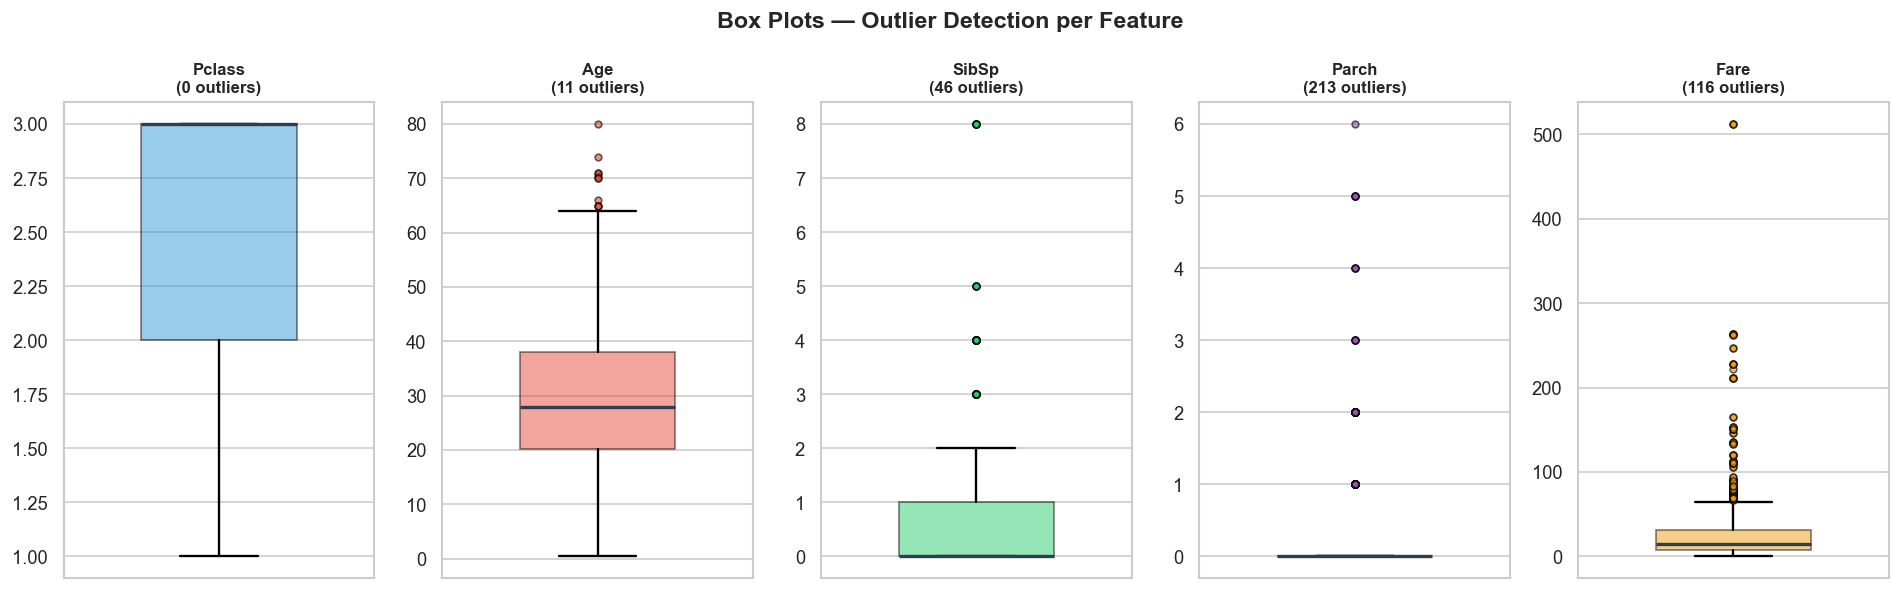
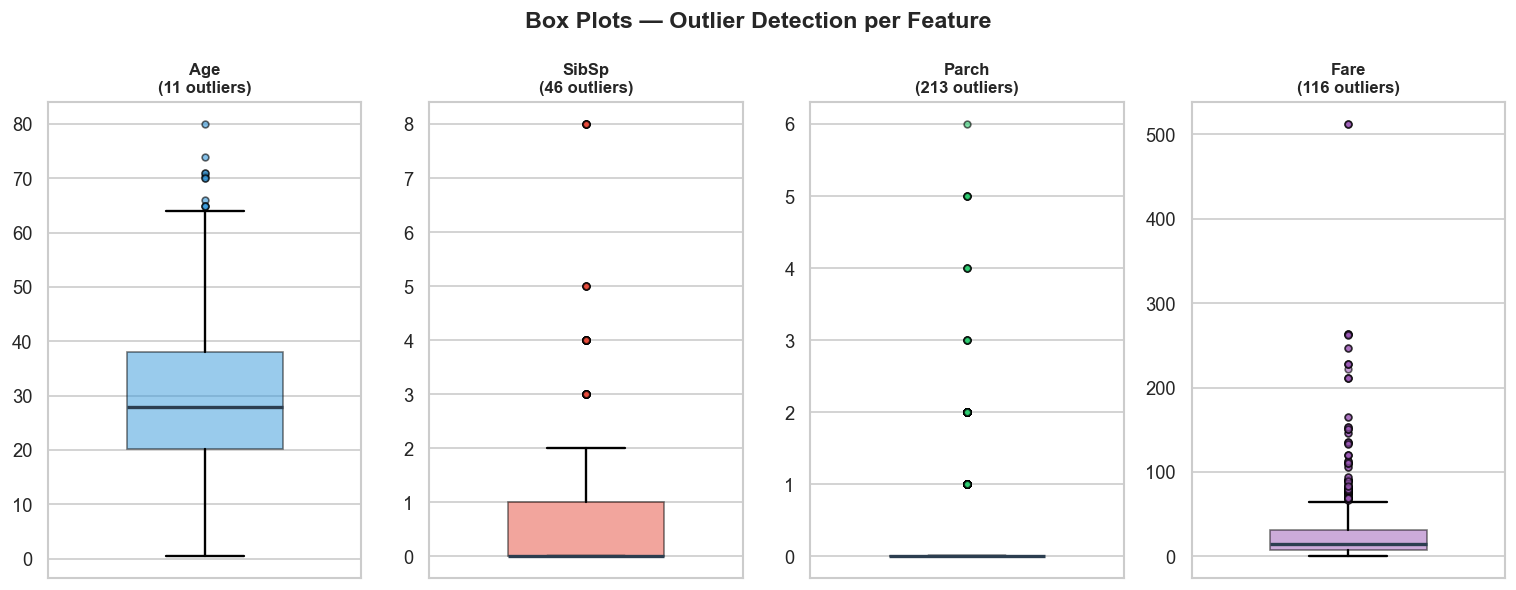
fix: remove Pclass from numerical feature analysis

diff --git a/src/components/assignment1/TabularEDA.jsx b/src/components/assignment1/TabularEDA.jsx
@@ -2,12 +2,14 @@ import React from 'react';
 import { Users, LayoutList, Hash, Target, Info, Database, AlertTriangle, BarChart2, PieChart, Network, Crosshair, Activity, Lightbulb } from 'lucide-react';
 import missingValuesImg from '../../assets/eda-tabular/tabular-missing-values.png';
 import duplicateValuesImg from '../../assets/eda-tabular/tabular-duplicate-values.png';
-import pclassDistImg from '../../assets/eda-tabular/tabular_pclass_distribution.png';
 import ageDistImg from '../../assets/eda-tabular/tabular_age_distribution.png';
 import sibspDistImg from '../../assets/eda-tabular/tabular_sibsp_distribution.png';
 import parchDistImg from '../../assets/eda-tabular/tabular_parch_distribution.png';
 import fareDistImg from '../../assets/eda-tabular/tabular_fare_distribution.png';
-import categoricalDistImg from '../../assets/eda-tabular/tabular_categorical_distribution.png';
+import pclassDistImg from '../../assets/eda-tabular/tabular_pclass_distribution.png';
+import sexDistImg from '../../assets/eda-tabular/tabular_sex_distribution.png';
+import cabinDistImg from '../../assets/eda-tabular/tabuluar_cabin_distribution.png';
+import embarkedDistImg from '../../assets/eda-tabular/tabular_embarked_distribution.png';
 import ticketPrefixDistImg from '../../assets/eda-tabular/tabular_ticketprefix_distribution.png';
 import correlationHeatmapImg from '../../assets/eda-tabular/tabular_correlation_heatmap.png';
 import targetDistImg from '../../assets/eda-tabular/tabular_target_distribution.png';
@@ -20,7 +22,6 @@ import kurtosisImg from '../../assets/eda-tabular/tabular_kurtosis.png';
 
 const TabularEDA = () => {
     const numericalStats = [
-        { feature: 'Pclass', count: 891, mean: '2.31', median: '3.00', std: '0.84', min: '1.00', max: '3.00' },
         { feature: 'Age', count: 714, mean: '29.70', median: '28.00', std: '14.53', min: '0.42', max: '80.00' },
         { feature: 'SibSp', count: 891, mean: '0.52', median: '0.00', std: '1.10', min: '0.00', max: '8.00' },
         { feature: 'Parch', count: 891, mean: '0.38', median: '0.00', std: '0.81', min: '0.00', max: '6.00' },
@@ -28,7 +29,6 @@ const TabularEDA = () => {
     ];
 
     const outlierStats = [
-        { feature: 'Pclass', lower: '0.50', upper: '4.50', q1: '2.00', q3: '3.00', iqr: '1.00', skewness: '-0.63', kurtosis: '-1.28', count: 0, percent: '0.00', severity: '🟢 Low' },
         { feature: 'Age', lower: '-6.69', upper: '64.81', q1: '20.12', q3: '38.00', iqr: '17.88', skewness: '0.39', kurtosis: '0.18', count: 11, percent: '1.54', severity: '🟡 Medium' },
         { feature: 'SibSp', lower: '-1.50', upper: '2.50', q1: '0.00', q3: '1.00', iqr: '1.00', skewness: '3.70', kurtosis: '17.88', count: 46, percent: '5.16', severity: '🔴 High' },
         { feature: 'Parch', lower: '0.00', upper: '0.00', q1: '0.00', q3: '0.00', iqr: '0.00', skewness: '2.75', kurtosis: '9.78', count: 213, percent: '23.91', severity: '🔴 High' },
@@ -62,6 +62,7 @@ const TabularEDA = () => {
         { feature: 'Ticket', unique: 681, cardinality: '🔴 High (ID-like)', mode: '1601', modeFreq: 7, modePercent: '0.79', missingPercent: '0.00' },
         { feature: 'Cabin', unique: 147, cardinality: '🟠 Medium', mode: 'B96 B98', modeFreq: 4, modePercent: '1.96', missingPercent: '77.10' },
         { feature: 'Embarked', unique: 3, cardinality: '🟡 Low', mode: 'S', modeFreq: 644, modePercent: '72.44', missingPercent: '0.22' },
+        { feature: 'Pclass', unique: 3, cardinality: '🟡 Low', mode: '3', modeFreq: 491, modePercent: '55.11', missingPercent: '0.00' },
     ];
 
     const missingData = [
@@ -490,10 +491,6 @@ const TabularEDA = () => {
                 {/* Distribution Visualizations */}
                 <div className="grid grid-cols-1 md:grid-cols-2 lg:grid-cols-3 gap-6 mt-4">
                     <div className="bg-white p-6 border border-slate-200 rounded-2xl shadow-sm flex flex-col items-center hover:shadow-md transition-shadow">
-                        <h5 className="font-bold text-slate-700 mb-4 w-full text-center text-lg border-b border-slate-100 pb-2">Pclass Distribution</h5>
-                        <img src={pclassDistImg} alt="Pclass Distribution" className="w-full h-auto rounded-xl object-contain hover:scale-[1.02] transition-transform" />
-                    </div>
-                    <div className="bg-white p-6 border border-slate-200 rounded-2xl shadow-sm flex flex-col items-center hover:shadow-md transition-shadow">
                         <h5 className="font-bold text-slate-700 mb-4 w-full text-center text-lg border-b border-slate-100 pb-2">Age Distribution</h5>
                         <img src={ageDistImg} alt="Age Distribution" className="w-full h-auto rounded-xl object-contain hover:scale-[1.02] transition-transform" />
                     </div>
@@ -565,11 +562,24 @@ const TabularEDA = () => {
                         <div className="bg-purple-50 rounded-2xl p-6 border border-purple-100 shadow-sm">
                             <h4 className="text-xl font-bold text-purple-900 mb-2">Non-ID Categorical Distribution</h4>
                             <p className="text-purple-700/80 leading-relaxed">
-                                Variables such as <strong className="text-purple-900">Name</strong> and <strong className="text-purple-900">Ticket</strong> have extremely high cardinality mapping closely to unique IDs. Therefore, they are excluded from frequency analysis in favor of true categorical classifications: <strong className="text-purple-900">Sex, Cabin, and Embarked</strong>.
+                                Variables such as <strong className="text-purple-900">Name</strong> and <strong className="text-purple-900">Ticket</strong> have extremely high cardinality mapping closely to unique IDs. Therefore, they are excluded from frequency analysis in favor of true categorical classifications: <strong className="text-purple-900">Pclass, Sex, Cabin, and Embarked</strong>.
                             </p>
                         </div>
-                        <div className="bg-white p-4 border border-slate-200 rounded-2xl shadow-sm flex flex-col items-center hover:shadow-md transition-shadow w-full">
-                            <img src={categoricalDistImg} alt="Categorical Distribution" className="w-full h-auto max-h-[800px] rounded-xl object-contain hover:scale-[1.01] transition-transform" />
+                        <div className="bg-white p-6 border border-slate-200 rounded-2xl shadow-sm flex flex-col items-center hover:shadow-md transition-shadow w-full">
+                            <h5 className="font-bold text-slate-700 mb-4 w-full text-center text-lg border-b border-slate-100 pb-2">Pclass Distribution</h5>
+                            <img src={pclassDistImg} alt="Pclass Distribution" className="w-full max-w-xl h-auto rounded-xl object-contain hover:scale-[1.01] transition-transform" />
+                        </div>
+                        <div className="bg-white p-6 border border-slate-200 rounded-2xl shadow-sm flex flex-col items-center hover:shadow-md transition-shadow w-full">
+                            <h5 className="font-bold text-slate-700 mb-4 w-full text-center text-lg border-b border-slate-100 pb-2">Sex Distribution</h5>
+                            <img src={sexDistImg} alt="Sex Distribution" className="w-full max-w-xl h-auto rounded-xl object-contain hover:scale-[1.01] transition-transform" />
+                        </div>
+                        <div className="bg-white p-6 border border-slate-200 rounded-2xl shadow-sm flex flex-col items-center hover:shadow-md transition-shadow w-full">
+                            <h5 className="font-bold text-slate-700 mb-4 w-full text-center text-lg border-b border-slate-100 pb-2">Cabin Distribution</h5>
+                            <img src={cabinDistImg} alt="Cabin Distribution" className="w-full max-w-xl h-auto rounded-xl object-contain hover:scale-[1.01] transition-transform" />
+                        </div>
+                        <div className="bg-white p-6 border border-slate-200 rounded-2xl shadow-sm flex flex-col items-center hover:shadow-md transition-shadow w-full">
+                            <h5 className="font-bold text-slate-700 mb-4 w-full text-center text-lg border-b border-slate-100 pb-2">Embarked Distribution</h5>
+                            <img src={embarkedDistImg} alt="Embarked Distribution" className="w-full max-w-xl h-auto rounded-xl object-contain hover:scale-[1.01] transition-transform" />
                         </div>
                     </div>
 
